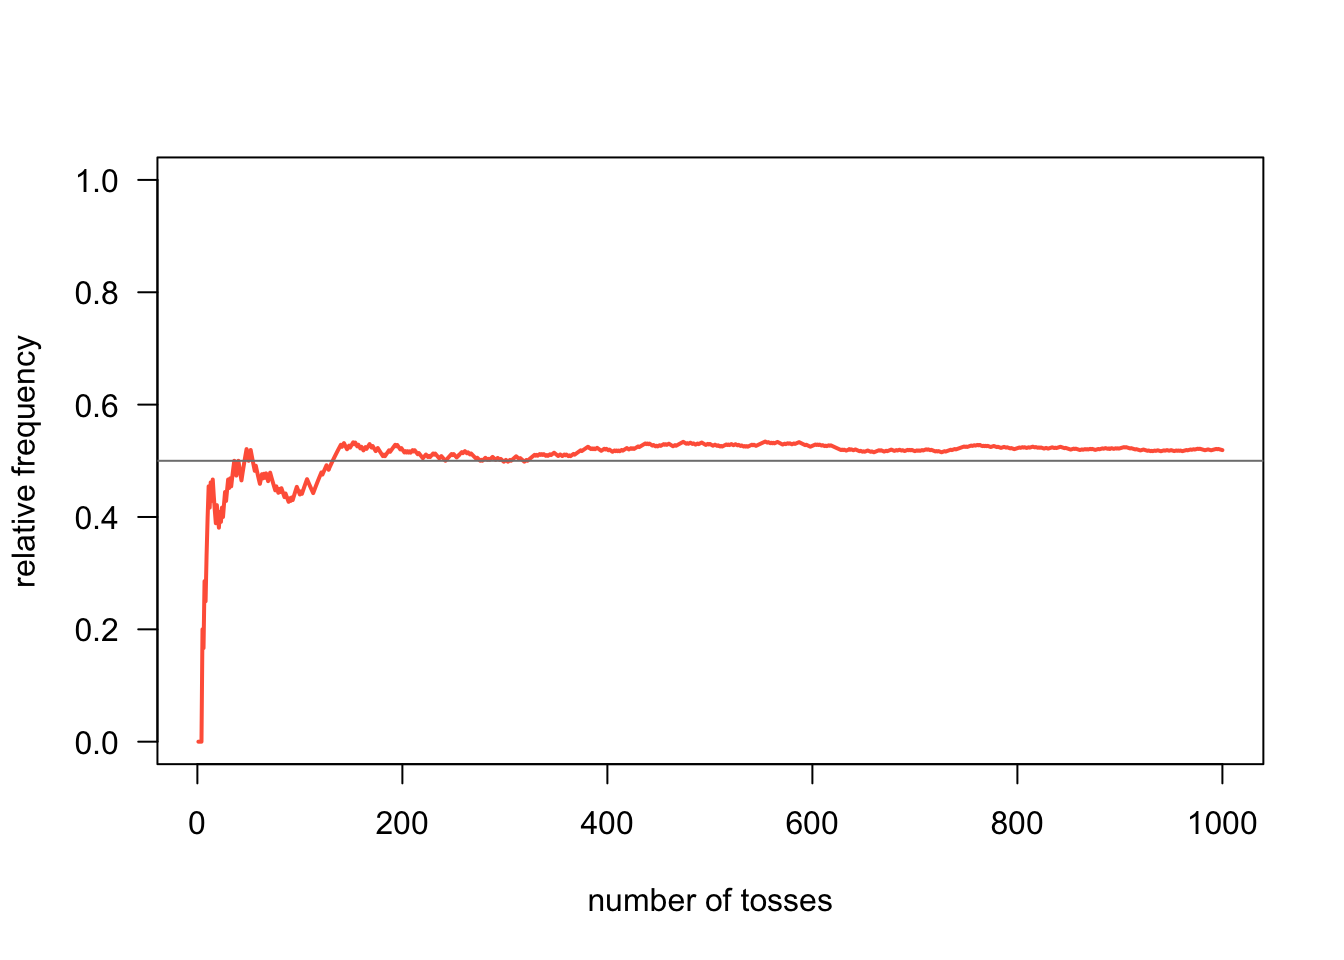
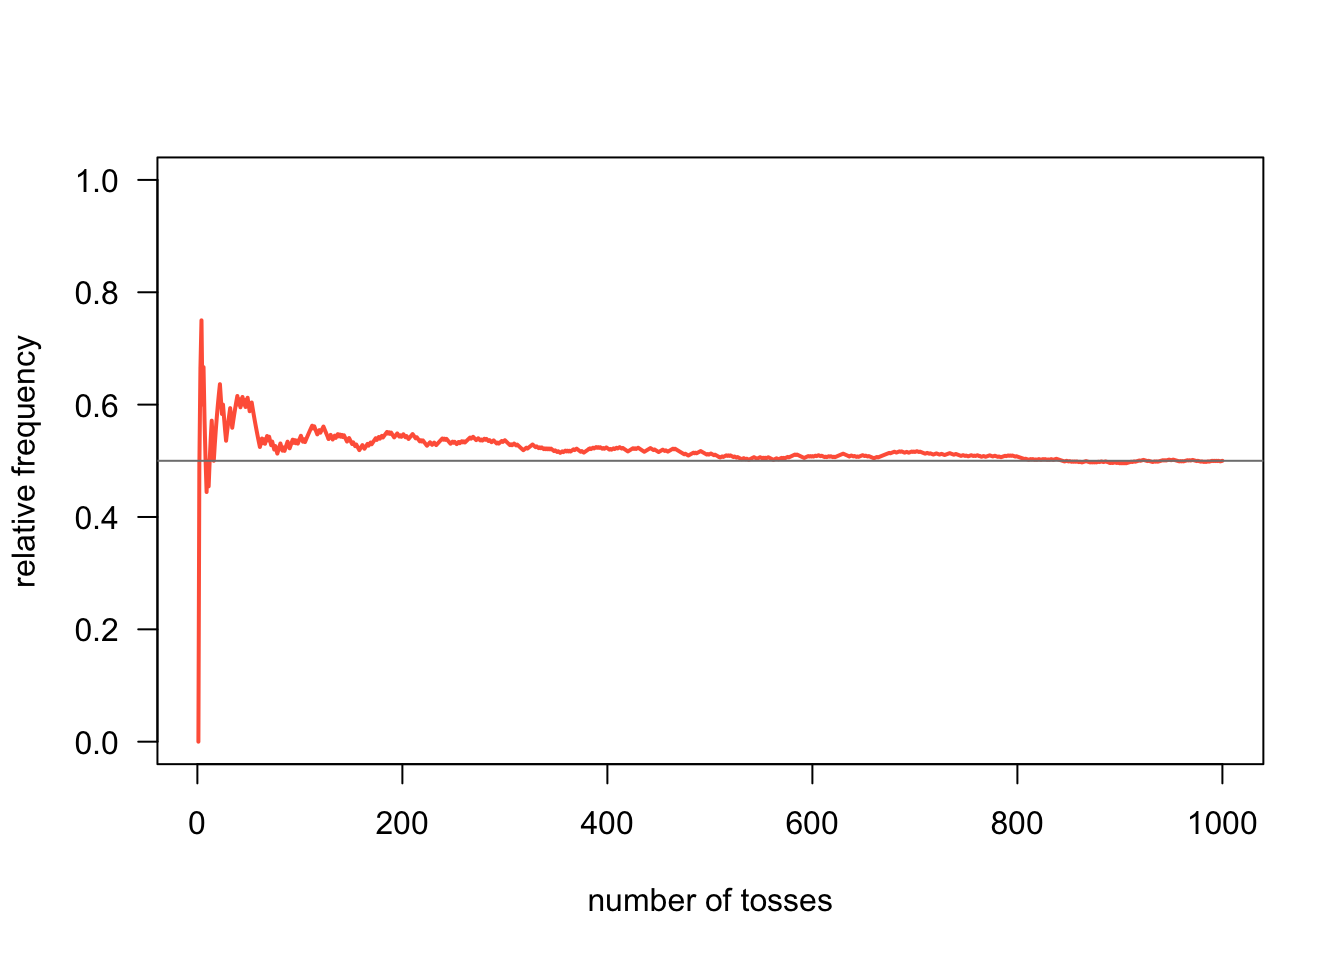
minor update to i306 study guide

Changed region(s): [[0.125, 0.3438, 0.4375, 0.7812], [0.4688, 0.4375, 0.9062, 0.5]]

diff --git a/stats/studyGuide/week03.html b/stats/studyGuide/week03.html
@@ -746,7 +746,7 @@ div.csl-indent {
 404 west virginia (old)            8</code></pre>
 </div>
 </div>
-<p>The number 404 is because there are 404 elements in the list, which you can find out with the <code>dim()</code> function, where dim stands for dimensions.</p>
+<p>The number 404 is because there are 404 unique elements in the list, which you can find out by looking at the output of the <code>count()</code> function.</p>
 <p>Another solution (more cumbersome) follows.</p>
 <div class="cell">
 <div class="sourceCode cell-code" id="cb5"><pre class="sourceCode r code-with-copy"><code class="sourceCode r"><span id="cb5-1"><a href="#cb5-1" aria-hidden="true" tabindex="-1"></a>df <span class="sc">%&gt;%</span></span>
@@ -802,7 +802,7 @@ div.csl-indent {
 # ℹ 364 more rows</code></pre>
 </div>
 </div>
-<p>Another way to investigate categorical data is through contingency tables. You have already made some of these using the <code>table()</code> function and some associated functions that are mentioned in the <code>week02.qmd</code> file. It will take some intuition to figure out which pairs of categorical columns should be tabulated for Milestone 1.</p>
+<p>Another way to investigate categorical data is through contingency tables. You have already made some of these using the <code>table()</code> function and some associated functions that are mentioned in the <code>week02exercises-soln.qmd</code> file. It will take some intuition to figure out which pairs of categorical columns should be tabulated for Milestone 1.</p>
 </section>
 <section id="numerical-data" class="level3" data-number="3.2.3">
 <h3 data-number="3.2.3" class="anchored" data-anchor-id="numerical-data"><span class="header-section-number">3.2.3</span> Numerical Data</h3>

diff --git a/stats/studyGuide/week04.html b/stats/studyGuide/week04.html
@@ -379,7 +379,7 @@ pre > code.sourceCode > span > a:first-child::before { text-decoration: underlin
 <div class="cell-output cell-output-stdout">
 <pre><code>flips
 heads tails 
-  519   481 </code></pre>
+  500   500 </code></pre>
 </div>
 <div class="sourceCode cell-code" id="cb12"><pre class="sourceCode r code-with-copy"><code class="sourceCode r"><span id="cb12-1"><a href="#cb12-1" aria-hidden="true" tabindex="-1"></a>heads_freq <span class="ot">&lt;-</span> <span class="fu">cumsum</span>(flips <span class="sc">==</span> <span class="st">'heads'</span>) <span class="sc">/</span> <span class="dv">1</span><span class="sc">:</span>num_flips</span>
 <span id="cb12-2"><a href="#cb12-2" aria-hidden="true" tabindex="-1"></a><span class="fu">plot</span>(heads_freq,      <span class="co"># vector</span></span>

diff --git a/stats/studyGuide/week02.html b/stats/studyGuide/week02.html
@@ -1021,8 +1021,8 @@ loan_purpose             A  B  C  D  E  F  G Sum
         style_positive = style_positive, style_negative = style_negative, 
         scale_cut = scale_cut, trim = trim, ...)
 }
-&lt;bytecode: 0x7f804b295650&gt;
-&lt;environment: 0x7f803b3c7eb0&gt;</code></pre>
+&lt;bytecode: 0x7fa06495ebe0&gt;
+&lt;environment: 0x7fa0579082e8&gt;</code></pre>
 </div>
 <div class="sourceCode cell-code" id="cb68"><pre class="sourceCode r code-with-copy"><code class="sourceCode r"><span id="cb68-1"><a href="#cb68-1" aria-hidden="true" tabindex="-1"></a><span class="co">#. same info with commas in numbers</span></span>
 <span id="cb68-2"><a href="#cb68-2" aria-hidden="true" tabindex="-1"></a>loan50 <span class="sc">|&gt;</span></span>

diff --git a/stats/studyGuide/week11.html b/stats/studyGuide/week11.html
@@ -407,7 +407,7 @@ div.csl-indent {
 </div>
 <div class="sourceCode cell-code" id="cb3"><pre class="sourceCode r code-with-copy"><code class="sourceCode r"><span id="cb3-1"><a href="#cb3-1" aria-hidden="true" tabindex="-1"></a><span class="fu">now</span>()</span></code><button title="Copy to Clipboard" class="code-copy-button"><i class="bi"></i></button></pre></div>
 <div class="cell-output cell-output-stdout">
-<pre><code>[1] "2023-09-06 15:15:08 CDT"</code></pre>
+<pre><code>[1] "2023-09-06 20:20:23 CDT"</code></pre>
 </div>
 </div>
 <p>Suppose you have a comma-separated-values (csv) file containing ISO-formatted dates or date-times. It’s automatically recognized.</p>
